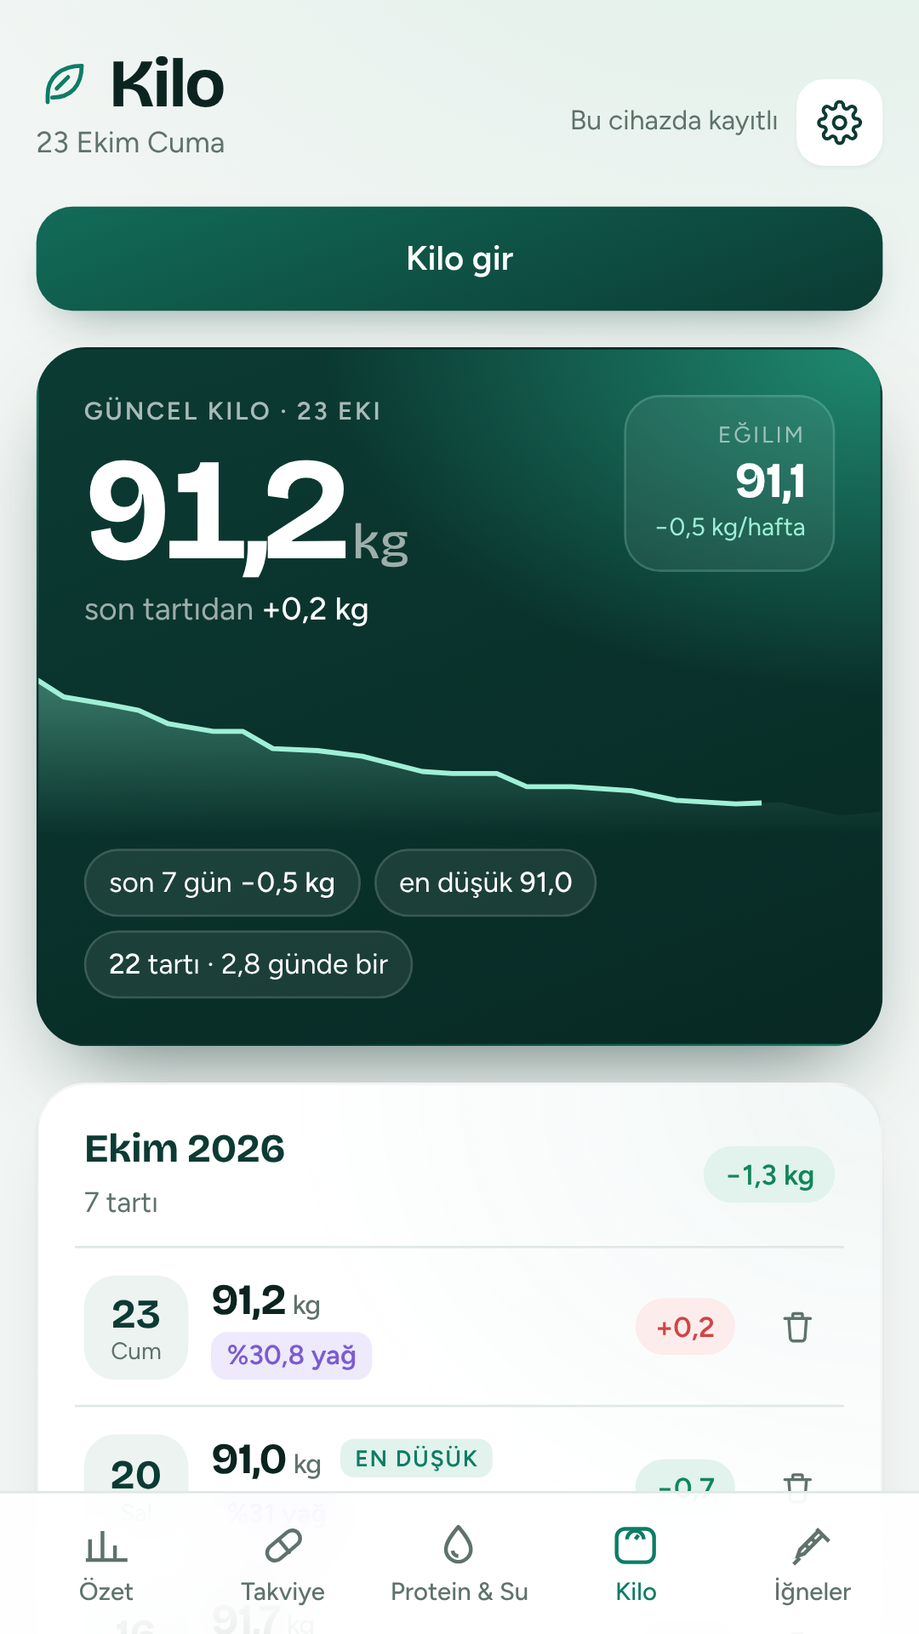
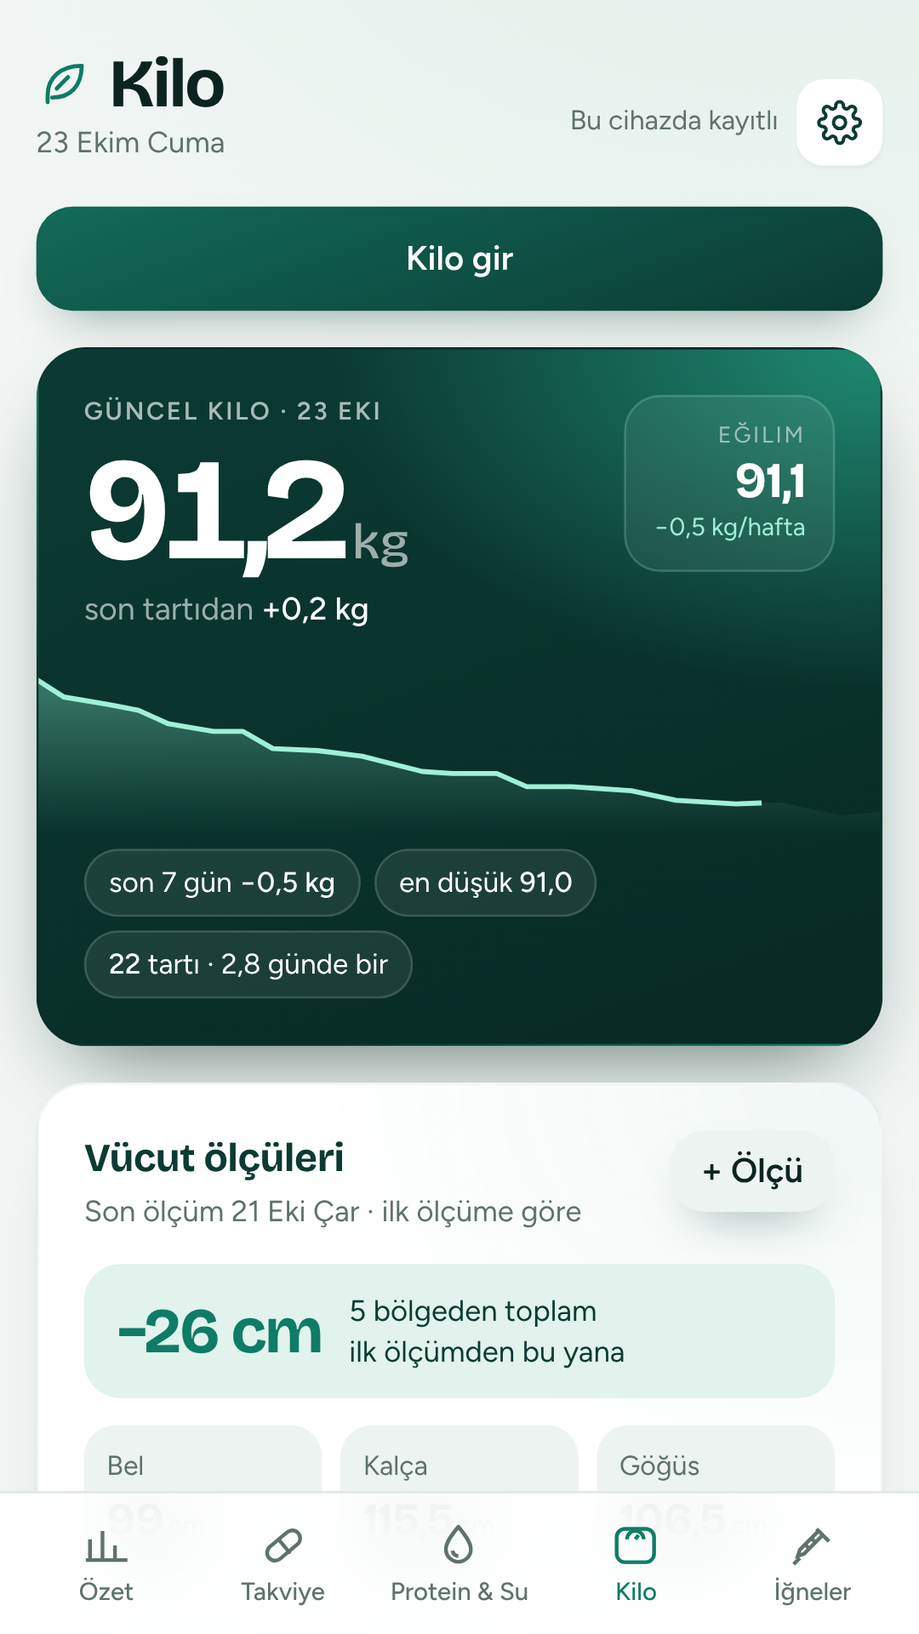
Mağaza: yeni ekran görüntüleri ve tanıtım görselleri, açıklama, kapalı test rehberi, video sahneleri
Claude-Session: https://claude.ai/code/session_01ERT3WxHgY3bECbR2LgZad1

Changed region(s): [[0.0917, 0.6875, 0.8861, 0.9062], [0.7639, 0.6875, 0.8861, 0.75]]

diff --git a/magaza/kaynak/tanitim-ekranlari.js b/magaza/kaynak/tanitim-ekranlari.js
@@ -18,6 +18,9 @@ const REKLAMYOK = svgI('<rect x="3.5" y="5.5" width="17" height="13" rx="3"/><pa
 const WIFIYOK = svgI('<path d="M5 12.5a10 10 0 0 1 3.2-2M12 9a10 10 0 0 1 7 3.5M8.5 16a5 5 0 0 1 7 0"/><circle cx="12" cy="19.5" r=".8" fill="currentColor"/><path d="M3 3l18 18"/>');
 const YEDEK = svgI('<path d="M12 3v11M7.5 9.5 12 14l4.5-4.5"/><path d="M4 15v3a3 3 0 0 0 3 3h10a3 3 0 0 0 3-3v-3"/>');
 const ADIMI = svgI('<path d="M8.5 3.5c1.6 0 2.5 1.6 2.5 3.8S10 11 8.6 11 6 9.5 6 7.3s.9-3.8 2.5-3.8zM6.6 13h4l-.4 3a2.2 2.2 0 0 1-4.3-.3z"/><path d="M15.5 7.5c1.6 0 2.5 1.6 2.5 3.8S17 15 15.6 15 13 13.5 13 11.3s.9-3.8 2.5-3.8zM13.6 17h4l-.4 3a2.2 2.2 0 0 1-4.3-.3z"/>');
+const NABIZ = svgI('<path d="M3 12h4l2-5 4 10 2-5h6"/>');
+const RAPOR = svgI('<path d="M7 3h7l5 5v11a2 2 0 0 1-2 2H7a2 2 0 0 1-2-2V5a2 2 0 0 1 2-2z"/><path d="M14 3v5h5M9 17v-3M12 17v-5M15 17v-2"/>');
+const AY = svgI('<path d="M20 14.5A8 8 0 0 1 9.5 4a8 8 0 1 0 10.5 10.5z"/>');
 const ROZET = '<svg width="100%" height="100%" viewBox="0 0 24 24" fill="none" stroke="currentColor" stroke-width="1.8" stroke-linecap="round" stroke-linejoin="round"><circle cx="12" cy="9" r="6"/><path d="M8.5 13.8 7 21l5-2.6L17 21l-1.5-7.2"/></svg>';
 
 // Her özelliğin rengi uygulamadaki rengiyle aynı
@@ -35,8 +38,11 @@ const EKRANLAR = [
   { ad: '02-adim', renk: 'adim', ikon: ADIMI, etiket: 'Adım sayar', baslik: ['Her adım', 'sayılır.'], alt: 'Health Connect ile adımların ve akıllı tartın kendiliğinden gelir.', ekran: '10-adimlar.png', kart: ['Bu hafta ortalama', '8.240 adım'], kartYer: 'sag', kartTop: 1690 },
   { ad: '03-igne', renk: 'igne', ikon: ikon('igne'), etiket: 'İğne takibi', baslik: ['Haftanı', 'tanı.'], alt: 'Döngünün hangi evresinde olduğunu ve sıradaki iğneni hep bil.', ekran: '02-dongu.png', kart: ['Bugünkü evre', 'Zirve · 4. gün'], kartYer: 'sol' },
   { ad: '04-rozet', renk: 'rozet', ikon: ROZET, etiket: 'Başarılar', baslik: ['Her eşik', 'bir rozet.'], alt: 'Ara hedeflere ulaştıkça rozet kazan, motivasyonun hep diri kalsın.', ekran: '04-rozetler.png', kart: ['Yeni rozet', '%5 vücut ağırlığı'], kartYer: 'sag' },
-  { ad: '05-protein-su', renk: 'su', ikon: ikon('besin'), etiket: 'Su ve protein', baslik: ['Tabağın ve', 'bardağın hazır.'], alt: 'Protein ve suyu tek dokunuşla ekle, günlük hedefini kaçırma.', ekran: '07-protein-su.png', kart: ['Bugün', '74 g · 1.750 ml'], kartYer: 'sol' },
+  { ad: '05-protein-su', renk: 'su', ikon: ikon('besin'), etiket: 'Su ve protein', baslik: ['Proteinin', 'blok blok.'], alt: 'Yediklerin hedefini renkli bloklarla doldurur; suyu tek dokunuşla ekle.', ekran: '07-protein-su.png', kart: ['Bugün', '74 g · 1.750 ml'], kartYer: 'sol' },
   { ad: '06-takviye', renk: 'takviye', ikon: ikon('takviye'), etiket: 'Takviye takibi', baslik: ['Takviyelerin', 'tek dokunuşta.'], alt: 'Sabah, akşam ve gece programını kur; aldıklarını işaretle.', ekran: '08-takviyeler.png', kart: ['Bugün alındı', '2 / 4'], kartYer: 'sag' },
+  { ad: '09-yan-etki', renk: 'igne', ikon: NABIZ, etiket: 'Yan etki günlüğü', baslik: ['Yan etkilerini', 'öngör.'], alt: 'Belirtilerini kaydet; iğneden sonraki hangi günlerde yoğunlaştığını gör.', ekran: '11-yan-etkiler.png', kart: ['En yoğun gün', 'İğneden 1 gün sonra'], kartYer: 'sag', kartTop: 1760 },
+  { ad: '10-rapor', renk: 'kilo', ikon: RAPOR, etiket: 'Ölçüler ve rapor', baslik: ['Kontrole', 'hazır git.'], alt: 'Ölçülerini kaydet; kilo, doz ve yan etkilerini tek PDF raporla doktoruna göster.', ekran: '13-olculer.png', kart: ['Bel çevresi', '−9 cm'], kartYer: 'sol' },
+  { ad: '11-karanlik', renk: 'adim', ikon: AY, etiket: 'Koyu tema', baslik: ['Gece de', 'göz yormaz.'], alt: 'Koyu tema telefonunun ayarını izler ya da istediğini sen seçersin.', ekran: '14-karanlik-ozet.png', kart: ['Görünüm', 'Sistem · Açık · Koyu'], kartYer: 'sag' },
 ];
 
 const yaziCSS = `@font-face{font-family:"Bricolage Grotesque";src:url(../../www/fonts/BricolageGrotesque-700-latin.woff2) format("woff2");font-weight:700;unicode-range:U+0000-00FF,U+0131,U+0152-0153,U+02BB-02BC,U+02C6,U+02DA,U+02DC,U+0304,U+0308,U+0329,U+2000-206F,U+20AC,U+2122,U+2191,U+2193,U+2212,U+2215,U+FEFF,U+FFFD}`;

diff --git a/magaza/kaynak/ekran-goruntuleri.js b/magaza/kaynak/ekran-goruntuleri.js
@@ -17,7 +17,10 @@ function ornekVeri() {
   ofs.forEach((n, i) => { const k = 98.4 - 8.9 * (1 - Math.exp(-n / 34)) + [0, .3, -.2, .1, .2, -.1][i % 6]; weights.push({ id: 'w' + i, date: gun(n), kg: Math.round(k * 10) / 10, fat: Math.round((34.2 - 3.4 * n / 59) * 10) / 10, note: null, t: i }); });
   const t = Date.UTC(2026, 9, 22, 21, 0); // 23 Ekim 00:00, İstanbul
   for (let n = 1; n <= 7; n++) { const d = new Date(2026, 9, 23 - n); daily[iso(d)] = { p: [96, 104, 88, 112, 99, 107, 92][n - 1], w: [2250, 2500, 2000, 2750, 2500, 2250, 2500][n - 1], log: [] }; }
-  daily[BUGUN] = { p: 74, w: 1750, log: [[t + 8.5 * 36e5, 'p', 12, 'Yumurta'], [t + 13 * 36e5, 'p', 31, 'Tavuk göğsü'], [t + 16 * 36e5, 'p', 31, null], [t + 8 * 36e5, 'w', 500], [t + 11 * 36e5, 'w', 250], [t + 13.2 * 36e5, 'w', 500], [t + 15 * 36e5, 'w', 500]] };
+  daily[BUGUN] = { p: 74, w: 1750, log: [[t + 8.4 * 36e5, 'p', 6, 'yumurta'], [t + 8.5 * 36e5, 'p', 6, 'yumurta'], [t + 8.6 * 36e5, 'p', 7, 'peynir'], [t + 13 * 36e5, 'p', 31, 'tavuk'], [t + 16 * 36e5, 'p', 15, 'yogurt'], [t + 17 * 36e5, 'p', 9, null], [t + 8 * 36e5, 'w', 500], [t + 11 * 36e5, 'w', 250], [t + 13.2 * 36e5, 'w', 500], [t + 15 * 36e5, 'w', 500]] };
+  const sides = {};
+  for (let i = 0; i < 9; i++) { const k = i % 3; sides[gun(i * 7 + 1)] = { bulanti: i < 4 ? 2 : 1, ...(k ? { yorgun: 1 } : {}) }; sides[gun(i * 7 + 2)] = { bulanti: 1, ...(k === 1 ? { reflu: 1 } : {}) }; if (i % 2 === 0 || i === 8) sides[gun(i * 7 + 3)] = { kabiz: 1 }; }
+  const meas = [{ id: 'm1', date: gun(0), bel: 108, kalca: 121, gogus: 112, kol: 37.5, uyluk: 66 }, { id: 'm2', date: gun(28), bel: 103.5, kalca: 118, gogus: 109, kol: 36, uyluk: 64 }, { id: 'm3', date: gun(57), bel: 99, kalca: 115.5, gogus: 106.5, kol: 35, uyluk: 62.5 }];
   const supps = [
     { id: 'mg', name: 'Magnezyum', slot: 'sabah', days: [0, 1, 2, 3, 4, 5, 6], shape: 'caps', color: '#4F8FDB' },
     { id: 'd3', name: 'D3 vitamini', slot: 'sabah', days: [1, 3, 5], shape: 'soft', color: '#F2C94C' },
@@ -25,8 +28,8 @@ function ornekVeri() {
     { id: 'b12', name: 'B12', slot: 'sabah', days: [1, 4], shape: 'tab', color: '#F1B3C3' },
     { id: 'mgn', name: 'Magnezyum (gece)', slot: 'gece', days: [0, 1, 2, 3, 4, 5, 6], shape: 'caps', color: '#7A52D6' }];
   return {
-    profile: { drug: null, startWeight: 98.4, goalWeight: 80, heightCm: 172, intervalDays: 7, proteinGoal: 110, waterGoal: 2500, noCelebrate: true },
-    weights, shots, daily, supps, suppTimes: { sabah: '08:00', aksam: '19:00', gece: '22:30' },
+    profile: { onboarded: true, usesShots: true, disclaimer: gun(0), age: 42, sex: 'k', penSize: 4, penLeft: 2, drug: null, startWeight: 98.4, goalWeight: 80, heightCm: 172, intervalDays: 7, proteinGoal: 110, waterGoal: 2500, noCelebrate: true },
+    weights, shots, daily, sides, meas, supps, suppTimes: { sabah: '08:00', aksam: '19:00', gece: '22:30' },
     suppLog: { [BUGUN]: { mg: t + 8.1 * 36e5, d3: t + 8.15 * 36e5 } },
     hc: { on: true, last: t + 14.3 * 36e5, wFrom: BUGUN }
   };
@@ -70,5 +73,10 @@ function ornekVeri() {
   await tab('takviye'); await shot('takviyeler');
   await tab('ozet'); await kaydir('.stcard'); await shot('adim-kart');
   await p.click('.stcard'); await p.waitForTimeout(800); await p.evaluate(() => scrollTo(0, 0)); await shot('adimlar');
+  await tab('igne'); await kaydir('#seCard'); await shot('yan-etkiler');
+  await kaydir('.pencard'); await shot('kalem');
+  await tab('kilo'); await kaydir('.mgrid'); await p.evaluate(() => scrollBy(0, -150)); await shot('olculer');
+  await p.click('#gearBtn'); await p.waitForTimeout(400); await p.click('[data-theme-set="dark"]'); await tab('ozet'); await shot('karanlik-ozet');
+  await tab('igne'); await kaydir('#seCard'); await shot('karanlik-yan-etkiler');
   await b.close();
 })();

diff --git a/magaza/kaynak/video/sahne.html b/magaza/kaynak/video/sahne.html
@@ -83,6 +83,8 @@ const IC = {
   kisi: SVG('<circle cx="12" cy="8" r="3.5"/><path d="M5 20a7 7 0 0 1 14 0"/><path d="M4 4l16 16"/>'),
   reklam: SVG('<rect x="3.5" y="5.5" width="17" height="13" rx="3"/><path d="M8 15l2-6 2 6M8.7 13h2.6M15 9v6h1a2 2 0 0 0 2-2v-2a2 2 0 0 0-2-2z"/><path d="M3 3l18 18"/>'),
   wifi: SVG('<path d="M5 12.5a10 10 0 0 1 3.2-2M12 9a10 10 0 0 1 7 3.5M8.5 16a5 5 0 0 1 7 0"/><circle cx="12" cy="19.5" r=".8" fill="currentColor"/><path d="M3 3l18 18"/>'),
+  nabiz: SVG('<path d="M3 12h4l2-5 4 10 2-5h6"/>'),
+  rapor: SVG('<path d="M7 3h7l5 5v11a2 2 0 0 1-2 2H7a2 2 0 0 1-2-2V5a2 2 0 0 1 2-2z"/><path d="M14 3v5h5M9 17v-3M12 17v-5M15 17v-2"/>'),
   yedek: SVG('<path d="M12 3v11M7.5 9.5 12 14l4.5-4.5"/><path d="M4 15v3a3 3 0 0 0 3 3h10a3 3 0 0 0 3-3v-3"/>'),
   play: '<svg viewBox="0 0 24 24"><path d="M4 3.5v17l9.2-8.5z" fill="#00A173"/><path d="M4 3.5l12.6 7.3-3.4 1.7z" fill="#00D7FE"/><path d="M4 20.5l12.6-7.3-3.4-1.7z" fill="#FF3A44"/><path d="M16.6 10.8 20 12.7l-3.4 2-3.4-2.7z" fill="#FFD109"/></svg>'
 };
@@ -102,8 +104,10 @@ const S = [
   { d: 4.3, r: 'kilo', ic: 'kilo', et: 'Kilo takibi', h: ['Her tartı', 'bir adım.'], sub: 'Verdiğin kiloyu, hızını ve hedefe kalan yolu tek bakışta gör.', img: '01-ozet.png', call: ['Başlangıçtan bu yana', -7.2, ' kg', 1], cx: 'sol' },
   { d: 4.3, r: 'adim', ic: 'adim', et: 'Adım sayar', h: ['Her adım', 'sayılır.'], sub: 'Health Connect ile adımların ve akıllı tartın kendiliğinden gelir.', img: '10-adimlar.png', call: ['Bugün', 6240, ' adım', 0], cx: 'sol' },
   { d: 4.3, r: 'igne', ic: 'igne', et: 'İğne takibi · isteğe bağlı', h: ['Haftanı', 'tanı.'], sub: 'Döngünün evresini, vücuttaki tahmini miktarı ve sıradaki iğneni gör.', img: '02-dongu.png', call: ['Sıradaki iğne', '4 gün sonra'], cx: 'sol' },
+  { d: 4.0, r: 'igne', ic: 'nabiz', et: 'Yan etki günlüğü', h: ['Yan etkilerini', 'öngör.'], sub: 'Belirtilerini kaydet; iğneden sonraki hangi günlerde yoğunlaştığını gör.', img: '11-yan-etkiler.png', call: ['En yoğun gün', 'İğneden 1 gün sonra'], cx: 'sol' },
+  { d: 4.0, r: 'kilo', ic: 'rapor', et: 'Ölçüler ve rapor', h: ['Kontrole', 'hazır git.'], sub: 'Ölçülerini kaydet; kilo, doz ve yan etkilerini tek PDF raporla doktoruna göster.', img: '13-olculer.png', call: ['Bel çevresi', -9, ' cm', 0], cx: 'sol' },
   { d: 4.0, r: 'rozet', ic: 'rozet', et: 'Başarılar', h: ['Her eşik', 'bir rozet.'], sub: 'Ara hedeflere ulaştıkça rozet kazan, motivasyonun hep diri kalsın.', img: '04-rozetler.png', call: ['Yeni rozet', '%5 vücut'], cx: 'sol' },
-  { d: 4.0, r: 'su', ic: 'su', et: 'Su ve protein', h: ['Tabağın ve', 'bardağın hazır.'], sub: 'Protein ve suyu tek dokunuşla ekle, günlük hedefini kaçırma.', img: '07-protein-su.png', call: ['Bugün su', 1750, ' ml', 0], cx: 'sol' },
+  { d: 4.0, r: 'su', ic: 'su', et: 'Su ve protein', h: ['Proteinin', 'blok blok.'], sub: 'Yediklerin hedefini renkli bloklarla doldurur; suyu tek dokunuşla ekle.', img: '07-protein-su.png', call: ['Bugün su', 1750, ' ml', 0], cx: 'sol' },
   { d: 4.0, r: 'takviye', ic: 'takviye', et: 'Takviye takibi', h: ['Takviyelerin', 'tek dokunuşta.'], sub: 'Sabah, akşam ve gece programını kur; aldıklarını işaretle.', img: '08-takviyeler.png', call: ['Bugün alındı', '2 / 4'], cx: 'sol' },
   { tip: 'bildirim', d: 4.8, r: 'bildirim', ic: 'zil', et: 'Hatırlatıcılar', h: ['Hiçbir şeyi', 'unutma.'], sub: 'İğne günü, takviyeler, su ve tartı; hepsi zamanında, internetsiz.' },
   { tip: 'gizlilik', d: 4.6, r: 'kilo', ic: 'kilit', et: 'Gizlilik', h: ['Verilerin', 'sende kalır.'], sub: 'Hafif senin kişisel defterin; kimse okumaz, kimseyle paylaşılmaz.' },

diff --git a/magaza/kapali-test-rehberi.md b/magaza/kapali-test-rehberi.md
@@ -1,0 +1,87 @@
+# Hafif – Play Console kapalı test rehberi
+
+2023 sonrasında açılan kişisel geliştirici hesaplarında uygulama doğrudan yayına çıkamaz. Önce **en az 12 test kullanıcısı**, **14 gün boyunca kesintisiz** kapalı teste katılmış olmalı. Ardından "Üretime erişim" başvurusu yapılır.
+
+Gereken dosyalar:
+- AAB: GitHub → Releases → son sürüm → `hafif-x.y.z.aab`
+- Mağaza metinleri: `magaza/aciklama.md`
+- Görseller: `magaza/gorseller/ikon-512.png`, `magaza/gorseller/tanitim-1024x500.png`, `magaza/tanitim/*.png`
+- Video: `magaza/video/hafif-tanitim-1920x1080.mp4`. Play yalnızca YouTube bağlantısı kabul eder; videoyu YouTube'a "Liste dışı" ya da "Herkese açık" olarak yükle.
+- Gizlilik politikası: https://ubektas.github.io/hafif-gizlilik/
+
+---
+
+## 1. Uygulamayı oluştur
+Play Console → **Uygulama oluştur**
+- Uygulama adı: `Hafif: Kilo ve İğne Takibi`
+- Varsayılan dil: Türkçe – tr-TR
+- Uygulama / oyun: **Uygulama**
+- Ücretsiz / ücretli: **Ücretsiz**. Abonelik sonradan eklenebilir; ücretsiz uygulama içinde abonelik satılabilir.
+- Beyanları işaretle → Oluştur
+
+## 2. "Uygulamanızı ayarlayın" görevleri (Kontrol paneli)
+**Uygulama içeriği** bölümündeki her maddeyi doldur:
+
+| Madde | Cevap |
+|---|---|
+| Gizlilik politikası | `https://ubektas.github.io/hafif-gizlilik/` |
+| Uygulama erişimi | Tüm işlevler özel erişim gerektirmeden kullanılabilir |
+| Reklamlar | Hayır, uygulama reklam içermiyor |
+| İçerik derecelendirmesi | Kategori: "Diğer / Tüm diğer uygulama türleri"; şiddet, cinsellik, kumar vb. tüm sorulara **Hayır**. Kullanıcılar etkileşimde bulunabilir mi: **Hayır**. Konum paylaşımı: **Hayır** |
+| Hedef kitle | Yalnızca **18 ve üzeri**. Çocuklara hitap etmiyor |
+| Haber uygulaması | Hayır |
+| Devlet uygulaması | Hayır |
+| Finansal özellikler | Hiçbiri |
+| Sağlık uygulamaları | Kategoriler: **Fitness ve sağlıklı yaşam** (kilo, adım, beslenme), **İlaç ve tedavi yönetimi** (iğne/doz hatırlatma ve kayıt). "Tıbbi cihaz" ya da "teşhis/tedavi" seçme |
+| Health Connect izinleri | Aşağıdaki 2a bölümüne bak |
+| Veri güvenliği | Aşağıdaki 2b bölümüne bak |
+
+### 2a. Health Connect izin beyanı
+İstenen izinler yalnızca **okuma**: Adımlar, Kilo, Vücut yağ oranı.
+- Kullanım amacı: "Kullanıcının günlük adımlarını ve akıllı tartı ölçümlerini (kilo, vücut yağ oranı) uygulama içinde göstermek ve kilo geçmişine eklemek."
+- Veriler cihazdan çıkıyor mu: **Hayır**; yalnızca telefondaki uygulama depolamasında tutulur.
+- Gerekirse kısa bir ekran videosu istenir: Özet → "Adımlarını ve tartını bağla" → Health Connect izin ekranı → adım kartı. Telefonda ekran kaydıyla 30 saniyelik bir video yeterli.
+
+### 2b. Veri güvenliği formu
+Hafif hiçbir veriyi cihazdan dışarı göndermediği için Google'ın tanımına göre veri **toplamaz** ve **paylaşmaz**.
+- Uygulamanız gerekli kullanıcı veri türlerini topluyor veya paylaşıyor mu? → **Hayır**
+- (Form "hayır" deyince kısalır.) Özet ekranında "Veri toplanmıyor · Veri paylaşılmıyor" görünür.
+- Not: Android'in kendi otomatik yedeklemesi ve kullanıcının kendi başlattığı paylaşım/dışa aktarma Google'ın tanımında "toplama" sayılmaz.
+
+## 3. Mağaza girişi (Büyüme → Mağaza varlığı → Ana mağaza girişi)
+- Uygulama adı, kısa açıklama, tam açıklama: `magaza/aciklama.md`
+- Uygulama simgesi: `magaza/gorseller/ikon-512.png`
+- Öne çıkan grafik: `magaza/gorseller/tanitim-1024x500.png`
+- Telefon ekran görüntüleri (en fazla 8): `magaza/tanitim/` klasöründen önerilen sıra:
+  1. 01-kilo, 2. 02-adim, 3. 03-igne, 4. 09-yan-etki, 5. 05-protein-su, 6. 10-rapor, 7. 07-hatirlatici, 8. 08-gizlilik
+  (Yedek olarak 04-rozet, 06-takviye, 11-karanlik)
+- Video: YouTube bağlantısı
+- Kategori: **Sağlık ve Fitness**; iletişim e-postası: ub.ugurbektas@gmail.com
+
+## 4. Kapalı test kanalı
+Test ve yayınla → Test → **Kapalı test** → "Kanal oluştur" (ya da hazır gelen "Alfa"yı kullan)
+1. **Test kullanıcıları** sekmesi → "E-posta listesi oluştur" → en az **12–15** Gmail adresi ekle (fazlası iyi; biri çıkarsa 12'nin altına düşmezsin). Geri bildirim URL'si/e-postası: ub.ugurbektas@gmail.com
+2. **Ülkeler**: Türkiye (istersen tüm ülkeler)
+3. **Sürüm oluştur** → Play Uygulama İmzalama'yı kabul et → AAB'yi yükle → sürüm adı otomatik gelir → sürüm notu:
+   `İlk test sürümü: kilo, adım, iğne, yan etki, protein, su, takviye takibi; hatırlatıcılar ve PDF rapor.`
+4. **İncelemeye gönder.** İlk inceleme birkaç saatten birkaç güne kadar sürebilir.
+5. Onaylanınca **Test kullanıcıları** sekmesindeki "Katılım bağlantısı"nı testçilere gönder. Her biri:
+   - bağlantıyı **Play'e giriş yaptığı Gmail ile** açar → "Test kullanıcısı ol"a basar
+   - ardından Play Store'dan Hafif'i indirir
+   - **14 gün boyunca testten çıkmaz**; birkaç kez açıp kullanırsa başvuruda işine yarar
+
+> 14 günlük sayaç, 12. kişi katıldığı gün başlar. Kontrol panelindeki "Üretim erişimi" kartında kaç kişinin katıldığını ve kaç gün kaldığını görürsün.
+
+**Testçi bulmak için:** aile ve arkadaşlar (her biri ayrı Gmail ve Android telefon gerekir); Reddit'te r/AndroidClosedTesting ve r/TestersCommunity; "12 testers" gibi karşılıklı test toplulukları.
+
+## 5. Test sırasında yeni sürüm
+Yeni sürüm çıkarmak 14 günlük sayacı **sıfırlamaz**. GitHub → Actions → "Play Store sürümü" → sürüm numarasını yaz → oluşan AAB'yi aynı kapalı test kanalına yeni sürüm olarak yükle.
+
+## 6. Üretime erişim başvurusu (14 gün dolunca)
+Kontrol paneli → **Üretime erişim için başvur**. Sorulara örnek cevaplar:
+- *Testçileri nasıl buldunuz?* "Arkadaş ve aile çevremden, ayrıca Android test topluluklarından."
+- *Testçiler uygulamayı nasıl kullandı?* "Tartı, adım, iğne ve protein/su kayıtlarını günlük girdiler; hatırlatıcıları ve PDF raporu denediler."
+- *Hangi geri bildirimleri aldınız, ne değiştirdiniz?* Test sırasında gelen geri bildirimleri ve yaptığın düzeltmeleri yaz. Örnek: "Kayıt düzenleme, koyu tema ve yan etki günlüğü eklendi; protein ekranı sadeleştirildi."
+- *Uygulama üretime hazır mı?* Evet; hedef kitle 18+, sağlık verileri cihazda kalıyor.
+
+Onaylandıktan sonra **Üretim** kanalında "Sürüm oluştur" → kapalı testteki sürümü "Kitaplıktan ekle" ile seç → incelemeye gönder.

diff --git a/magaza/aciklama.md b/magaza/aciklama.md
@@ -4,41 +4,56 @@
 Hafif: Kilo ve İğne Takibi
 
 ## Kısa açıklama (en fazla 80 karakter)
-Kilo, haftalık iğne, protein, su ve takviyeler tek bir sade uygulamada.
+Kilo, adım, iğne, yan etki, protein ve su takibi tek bir sade uygulamada.
 
 ## Tam açıklama (en fazla 4000 karakter)
-Hafif, kilo verme yolculuğunu sade ve motive edici bir şekilde takip etmen için tasarlandı. Tartılarını, haftalık iğnelerini, günlük protein ve suyunu, takviyelerini tek bir yerde tutar; ilerlemeni anlaşılır grafiklerle gösterir.
+Hafif, kilo verme yolculuğunu sade ve motive edici bir şekilde takip etmen için tasarlandı. Tartılarını, adımlarını, haftalık iğnelerini, yan etkilerini, protein ve suyunu, takviyelerini tek bir yerde tutar; ilerlemeni anlaşılır grafiklerle gösterir.
 
-KİLO VE VÜCUT KOMPOZİSYONU
-• Tartılarını saniyeler içinde kaydet, isteğe bağlı yağ oranı ve not ekle
-• Başlangıçtan bugüne değişimi, haftalık ortalama hızını ve hedefe kalan yolu gör
-• Kilo, yağ kütlesi ve yağsız kütle değişimini grafiklerle izle
+KİLO, ÖLÇÜLER VE VÜCUT KOMPOZİSYONU
+• Tartılarını saniyeler içinde kaydet; yağ oranı ve not ekle, yanlış girdiğini dokunarak düzelt
+• Başlangıçtan bugüne değişimi, haftalık hızını ve hedefe kalan yolu gör
+• Bel, kalça, göğüs, kol, uyluk ve boyun ölçülerini kaydet; tartı yerinde saysa da santimleri izle
+• Akıllı tartın Health Connect'e yazıyorsa ölçümlerin kendiliğinden gelir
 
-HAFTALIK İĞNE TAKİBİ
-• Her iğneyi tarih, saat, doz ve uygulama bölgesiyle kaydet
-• Sıradaki iğne zamanını ve bir sonraki bölge önerisini gör
-• Her iğne arasında kaç kilo verdiğini ve doz özetini incele
-• Haftalık döngünün hangi aşamasında olduğunu ve o aşamaya uygun genel ipuçlarını oku
+ADIM SAYAR
+• Health Connect ile günlük ve saatlik adımlarını gör
+• Adım hedefi, tahmini mesafe, kalori ve yürüyüş süresi
+
+HAFTALIK İĞNE TAKİBİ (isteğe bağlı)
+• Her iğneyi tarih, saat, doz ve bölgeyle kaydet; sıradaki bölge önerisini al
+• Haftalık döngünün hangi evresinde olduğunu ve evreye uygun ipuçlarını gör
+• Doz başına verdiğin kiloyu incele
+• Kalem stoğu: kalemde kaç doz kaldığını izle, bitmeden haber al
+
+YAN ETKİ GÜNLÜĞÜ
+• Bulantı, kabızlık, reflü, yorgunluk ve diğer belirtileri şiddetiyle tek dokunuşla kaydet
+• Yan etkilerinin iğneden sonraki hangi günlerde yoğunlaştığını gör
+
+DOKTOR İÇİN RAPOR
+• Kilo grafiği, doz geçmişi, yan etkiler, ölçüler ve beslenme özeti tek bir PDF'te
+• Kontrole giderken telefonundan paylaş ya da yazdır
 
 PROTEİN VE SU
-• Sık yediğin besinlerle protein ekle, günlük hedefine ne kadar kaldığını gör
-• Bardak, şişe ve hızlı ekle düğmeleriyle suyunu kolayca kaydet
-• Son 7 günün protein ve su geçmişine göz at
+• Yediklerin protein hedefini renkli bloklarla doldurur; sık yediklerin tek dokunuşta
+• Bardak ve şişe düğmeleriyle suyunu kolayca kaydet; son 7 günü gör
 
 TAKVİYELER
-• Sabah, akşam ve gece için kendi takviye programını oluştur
-• Hangi gün neyi alacağını belirle, aldıklarını tek dokunuşla işaretle
-• Haftalık tabloyla düzenini takip et
+• Sabah, akşam ve gece için kendi programını kur; aldıklarını işaretle
 
-ARA HEDEFLER VE PAYLAŞIM
-• Ara hedeflere ulaştıkça rozet kazan
-• İlerlemeni şık bir görsel olarak kaydet ve paylaş
+HATIRLATICILAR
+• İğne günü, takviyeler, su, protein, haftalık tartı, kalem stoğu ve yedek hatırlatmaları
+• Bildirimden tek dokunuşla kaydet: "+250 ml", "Hepsini aldım" gibi
+
+ROZETLER VE PAYLAŞIM
+• Ara hedeflere ulaştıkça rozet kazan; ilerlemeni şık bir görselle paylaş
+
+KOYU TEMA
+• Telefonunun ayarını izler ya da Açık / Koyu olarak sen seç
 
 VERİLERİN SENİN
-• Tüm veriler yalnızca telefonunda saklanır; hesap açman gerekmez
-• Reklam yok, takip yok, veri toplama yok
-• İnternet bağlantısı olmadan çalışır
-• Verilerini Excel dosyası olarak dışa aktar, yedek dosyası alıp yeni telefonuna geri yükle
+• Hesap yok; tüm veriler yalnızca telefonunda saklanır
+• Reklam yok, takip yok, veri toplama yok; internetsiz çalışır
+• Android yedeklemesiyle yeni telefonuna taşınır; Excel'e aktar, yedek dosyası al
 
 Önemli: Hafif bir kişisel takip aracıdır; tıbbi bir cihaz değildir ve tıbbi tavsiye vermez. İlaç kullanımın, dozun ve hedeflerin konusunda her zaman doktoruna danış.
 
